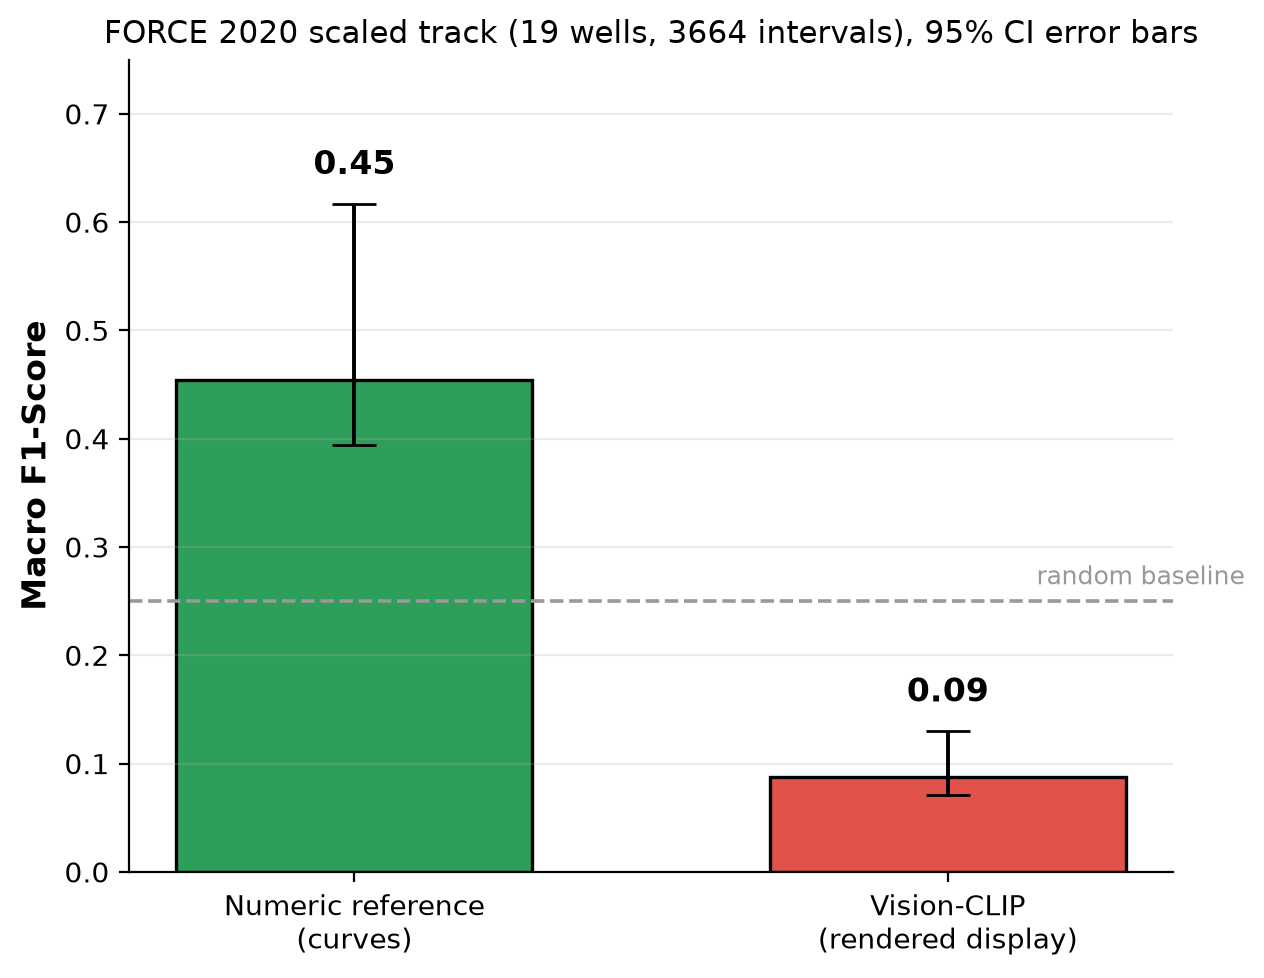
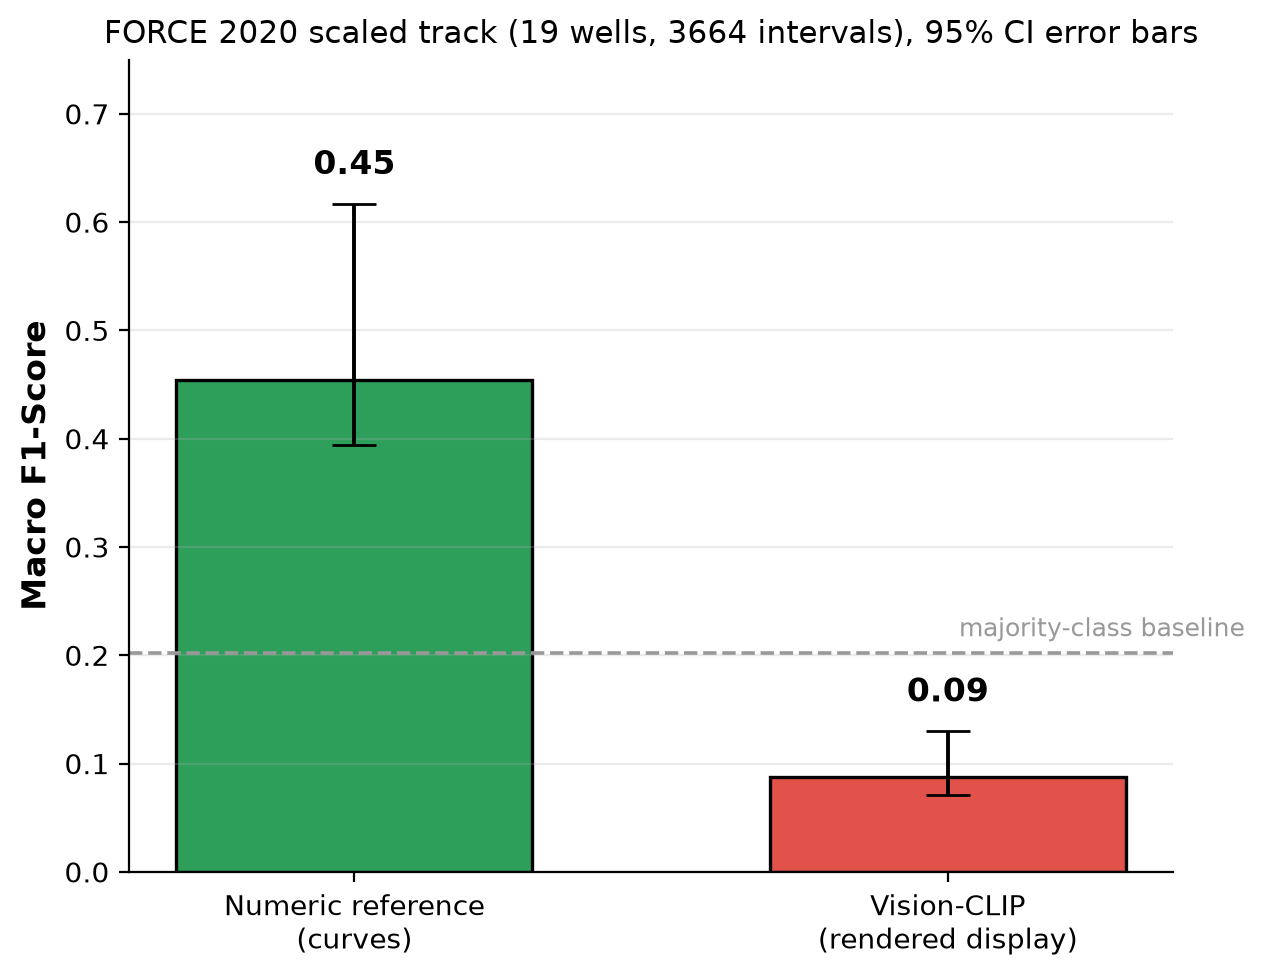
Fix baseline

Changed region(s): [[0.7405, 0.5828, 0.9873, 0.6748]]

diff --git a/geomm_bench/metrics.py b/geomm_bench/metrics.py
@@ -53,3 +53,41 @@ def accuracy(y_true, y_pred):
     if not y_true:
         return 0.0
     return sum(int(t == p) for t, p in zip(y_true, y_pred)) / len(y_true)
+
+
+def baseline_scores(y_true, classes=LITHOLOGY_CLASSES):
+    """Reference baselines computed from the label distribution.
+
+    Returns a majority-class baseline, which always predicts the most frequent
+    class, and a uniform-random baseline. The majority-class scores are exact.
+    The uniform-random accuracy is 1/K, and its macro-F1 is the expected value of
+    predicting each of the K classes with probability 1/K, using the per-class
+    expectations precision = prevalence and recall = 1/K. These give honest floors
+    on an imbalanced label set, where a fixed 1/K is not the macro-F1 of chance.
+    """
+    from collections import Counter
+    counts = Counter(y_true)
+    n = len(y_true)
+    k = len(classes)
+    present = [c for c in classes if counts.get(c, 0) > 0]
+    if not present or n == 0:
+        return {}
+    maj = counts.most_common(1)[0][0]
+    maj_pred = [maj] * n
+
+    def _f1(p, r):
+        return 2 * p * r / (p + r) if (p + r) else 0.0
+
+    unif_f1 = sum(_f1(counts[c] / n, 1.0 / k) for c in present) / len(present)
+    return {
+        "majority_class": {
+            "predict": maj,
+            "macro_f1": round(macro_f1(y_true, maj_pred, classes), 3),
+            "accuracy": round(accuracy(y_true, maj_pred), 3),
+        },
+        "random_uniform": {
+            "macro_f1": round(unif_f1, 3),
+            "accuracy": round(1.0 / k, 3),
+            "note": "expected value of predicting each class with probability 1/K",
+        },
+    }

diff --git a/scripts/make_results_figure.py b/scripts/make_results_figure.py
@@ -23,7 +23,6 @@ import matplotlib
 matplotlib.use("Agg")
 import matplotlib.pyplot as plt
 
-RANDOM_BASELINE = 0.25
 COLORS = {"text": "#2E9E5B", "vision": "#E0524A", "multimodal": "#E8943A"}
 
 # (json_key, display label, modality group)
@@ -54,11 +53,15 @@ def make_figure(results_path, out_path):
     f1 = [_val(results, k, "macro_f1") for k, _, _ in LAYOUT]
     acc = [_val(results, k, "accuracy") for k, _, _ in LAYOUT]
 
+    maj = doc.get("baselines", {}).get("majority_class", {})
+    maj_f1 = maj.get("macro_f1", 0.25)
+    maj_acc = maj.get("accuracy", 0.25)
+
     fig, axes = plt.subplots(1, 2, figsize=(15, 5.2))
 
-    for ax, vals, title, ylab in (
-        (axes[0], f1, "(a) Macro F1-Score", "Macro F1-Score"),
-        (axes[1], acc, "(b) Accuracy", "Accuracy"),
+    for ax, vals, title, ylab, base in (
+        (axes[0], f1, "(a) Macro F1-Score", "Macro F1-Score", maj_f1),
+        (axes[1], acc, "(b) Accuracy", "Accuracy", maj_acc),
     ):
         xs = range(len(labels))
         plotted = [(v if v is not None else 0.0) for v in vals]
@@ -70,8 +73,8 @@ def make_figure(results_path, out_path):
             else:
                 ax.text(b.get_x() + b.get_width() / 2, v + 0.015, f"{v:.3f}",
                         ha="center", va="bottom", fontsize=10, fontweight="bold")
-        ax.axhline(RANDOM_BASELINE, ls="--", color="#999", lw=1.3)
-        ax.text(len(labels) - 0.5, RANDOM_BASELINE + 0.01, "Random baseline",
+        ax.axhline(base, ls="--", color="#999", lw=1.3)
+        ax.text(len(labels) - 0.5, base + 0.04, "majority class",
                 ha="right", va="bottom", fontsize=9, color="#999")
         ax.set_ylim(0, 1.0)
         ax.set_title(title, fontsize=13, fontweight="bold")

diff --git a/scripts/make_force_figure.py b/scripts/make_force_figure.py
@@ -2,8 +2,8 @@
 """Plot the FORCE 2020 scaled-track figure from results/force_results.json.
 
 Macro-F1 for the numeric reference and vision-CLIP, with 95% bootstrap
-confidence intervals as error bars and the random-baseline macro-F1 as a dashed
-line. Numbers are read straight from the results file, so the figure cannot drift.
+confidence intervals as error bars and the majority-class baseline macro-F1 as a
+dashed line. Numbers are read straight from the results file, so the figure cannot drift.
 
 Usage:
     python scripts/make_force_figure.py \
@@ -42,9 +42,10 @@ def make_figure(results_path, out_path):
     for x, v, h in zip(xs, f1, hi):
         ax.text(x, v + h + 0.02, f"{v:.2f}", ha="center", va="bottom",
                 fontsize=12, fontweight="bold")
-    ax.axhline(0.25, ls="--", color="#999", lw=1.3)
-    ax.text(len(labels) - 0.5, 0.26, "random baseline", ha="right", va="bottom",
-            fontsize=9, color="#999")
+    maj = doc.get("baselines", {}).get("majority_class", {}).get("macro_f1", 0.25)
+    ax.axhline(maj, ls="--", color="#999", lw=1.3)
+    ax.text(len(labels) - 0.5, maj + 0.01, "majority-class baseline", ha="right",
+            va="bottom", fontsize=9, color="#999")
     ax.set_ylim(0, 0.75)
     ax.set_ylabel("Macro F1-Score", fontsize=12, fontweight="bold")
     ax.set_xticks(list(xs))

diff --git a/run_force.py b/run_force.py
@@ -71,7 +71,7 @@ def main():
             "ci95": [round(lo, 3), round(hi, 3)],
             "per_class_f1": {k: round(v, 3) for k, v in pc.items()},
             "pred_distribution": {k: int(v) for k, v in Counter(pred).items()}}
-    doc["baselines"] = {"random_four_class_f1": 0.25}
+    doc["baselines"] = M.baseline_scores(y)
 
     os.makedirs(os.path.dirname(args.out) or ".", exist_ok=True)
     with open(args.out, "w") as f:

diff --git a/run_geomm_bench.py b/run_geomm_bench.py
@@ -117,7 +117,7 @@ def build_doc(gt, log_pages=None, fws_pages=None, approaches=ALL_APPROACHES, sen
     if sensitivity:
         from geomm_bench.sensitivity import run_sensitivity
         doc["backbone_sensitivity"] = run_sensitivity(gt, log_pages)
-    doc["baselines"] = {"random_four_class_f1": 0.25}
+    doc["baselines"] = M.baseline_scores([g["lithology"] for g in gt])
     doc["notes"] = [CAVEAT]
     return doc
 

diff --git a/CHANGELOG.md b/CHANGELOG.md
@@ -28,6 +28,12 @@ Changed
   (0.726 macro-F1, falling to 0.398 when the label is redacted).
 - Pilot numbers are not comparable to v0.1, because the backbone and prompts
   changed.
+- Baselines are now computed from the label distribution rather than fixed at
+  0.25. The runners report a majority-class baseline and a uniform-random
+  baseline, each with macro-F1 and accuracy (`metrics.baseline_scores`). The
+  honest macro-F1 floor is the majority-class baseline (pilot 0.21, scaled track
+  0.20); the old 0.25 held only as uniform-random accuracy, not as a macro-F1
+  floor. Tables and figures use these computed values.
 
 Fixed
 - transformers 5.x compatibility. The CLIP image-embedding path now uses the

diff --git a/README.md b/README.md
@@ -40,7 +40,7 @@ with the PDFs and live in `results/geomm_bench_results.json`.
 In the pilot, text classifies best (0.726 macro-F1). Every image-based approach is
 weaker: multimodal fusion (0.631) does not reach text, the pure-vision approaches
 trail further (0.278–0.324), grounding (0.205) and VQA (0.143) fall below the
-random-baseline F1, and adding Full Wave Sonic does not close the gap.
+majority-class baseline F1 (0.21), and adding Full Wave Sonic does not close the gap.
 
 ### Backbone sensitivity
 